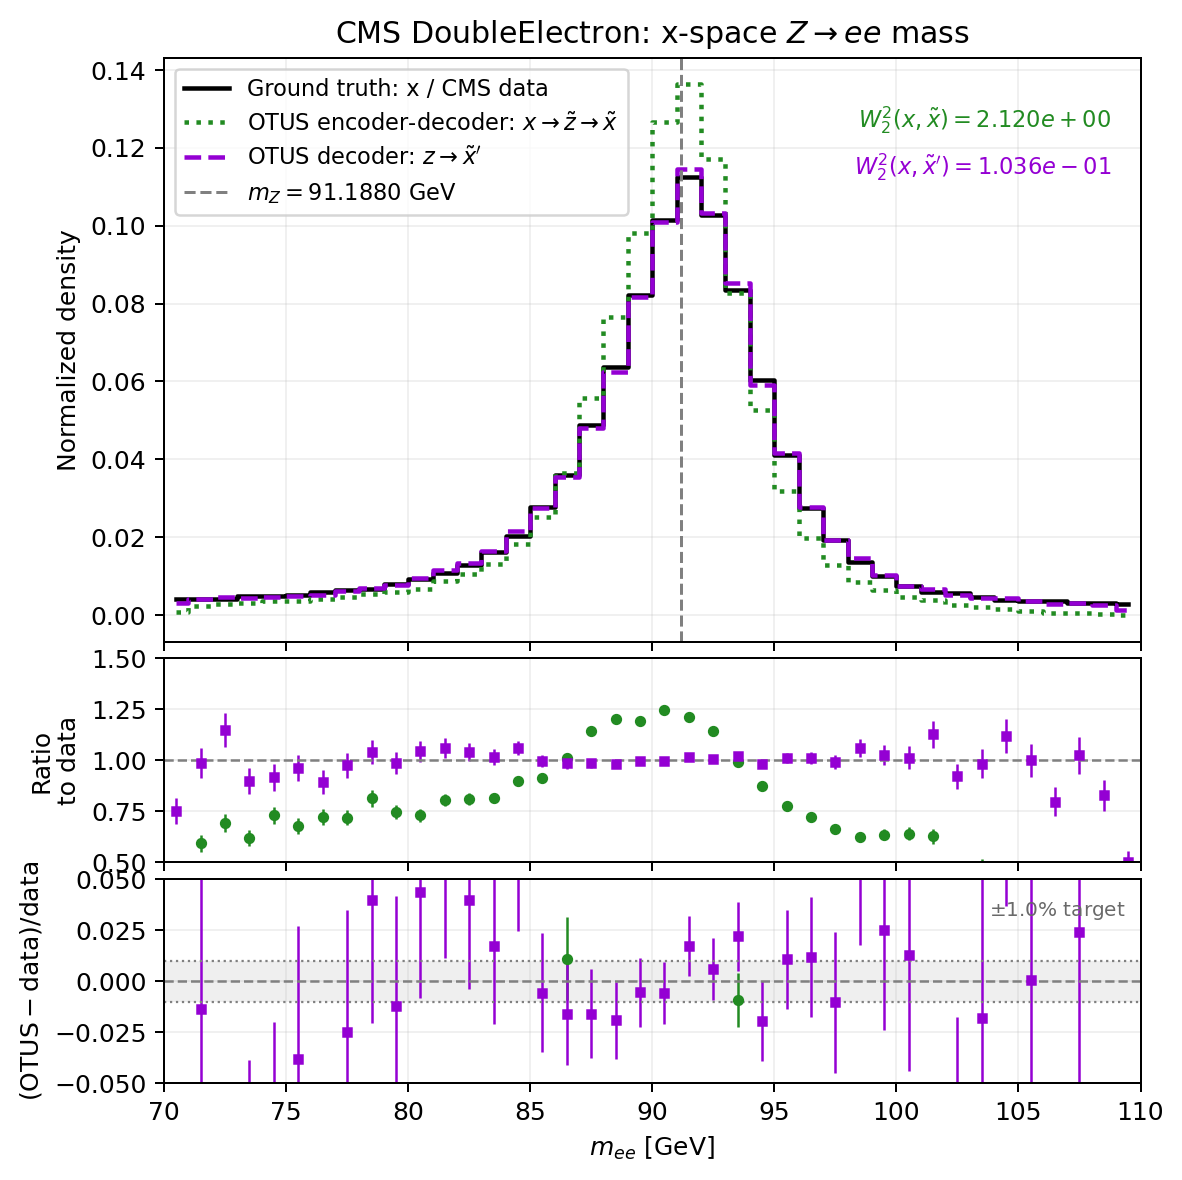
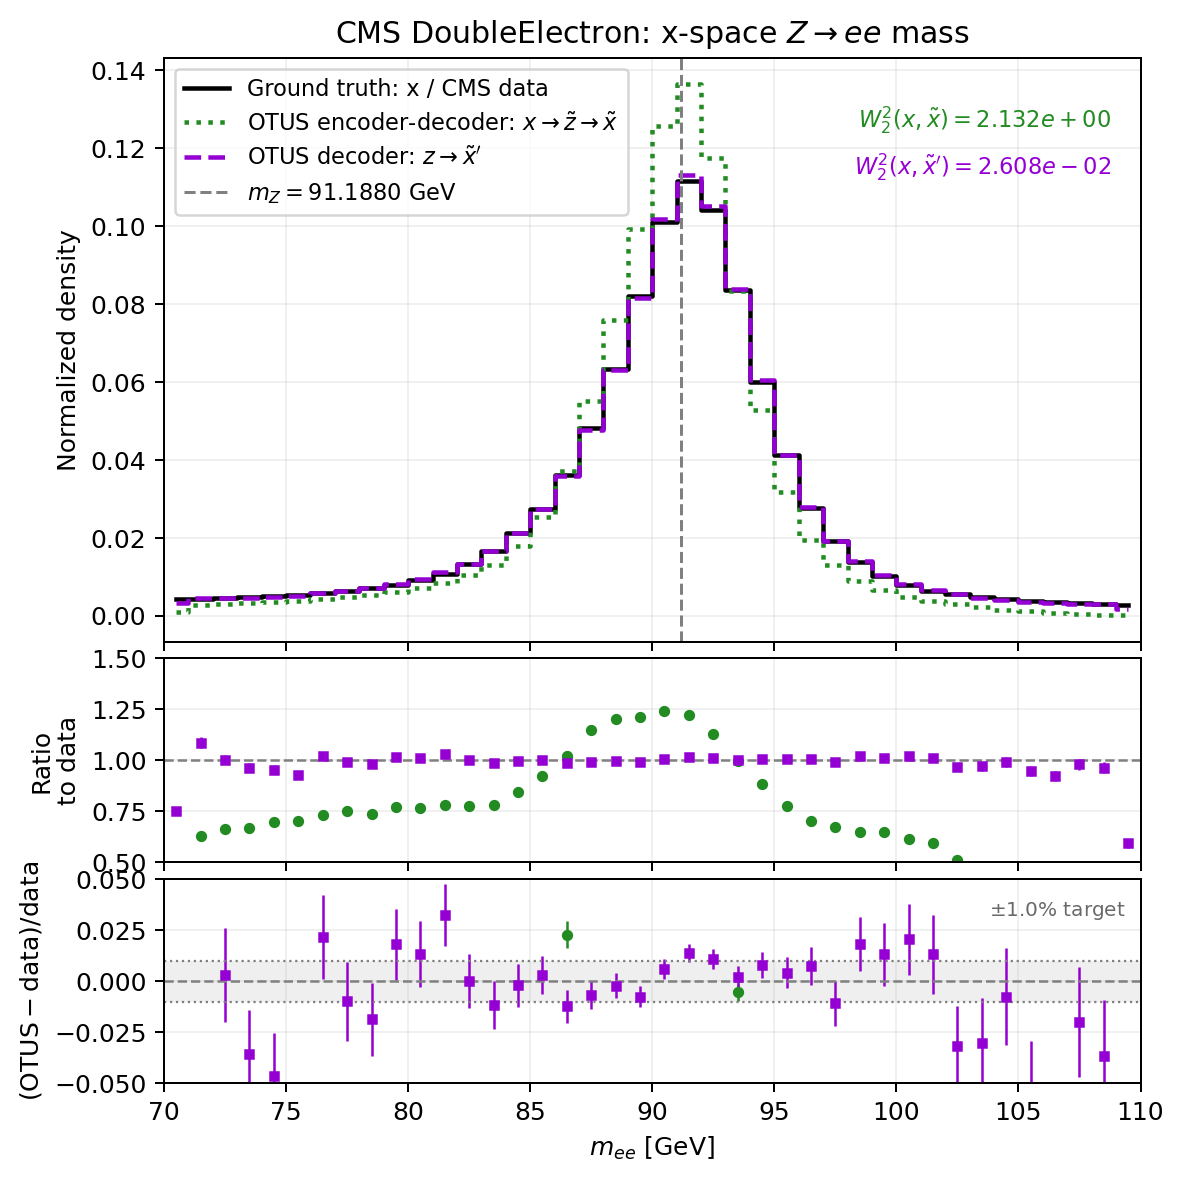
upload model

diff --git a/scripts/plot.py b/scripts/plot.py
@@ -1,8 +1,10 @@
 from __future__ import annotations
 
 import argparse
+import hashlib
 import json
 from pathlib import Path
+import time
 from typing import Any
 
 import matplotlib
@@ -58,10 +60,32 @@ def parse_args() -> argparse.Namespace:
     parser.add_argument("--device", default="auto", help="auto, cuda, mps, or cpu.")
     parser.add_argument("--output-dir", type=Path, default=None, help="Plot output directory.")
     parser.add_argument("--num-samples", type=int, default=None, help="Limit selected CMS and MG5 rows before splitting.")
-    parser.add_argument("--split", choices=("val", "test"), default="test", help="Held-out split to plot.")
+    parser.add_argument(
+        "--cache-dir",
+        type=Path,
+        default=None,
+        help="Directory for selected/split data cache. Defaults to <output_root>/.plot_cache.",
+    )
+    parser.add_argument(
+        "--no-data-cache",
+        action="store_true",
+        help="Disable selected/split data caching and reread ROOT/HDF5 inputs.",
+    )
+    parser.add_argument(
+        "--split",
+        choices=("all", "val", "test"),
+        default="all",
+        help="Data split to plot. Use all selected rows by default.",
+    )
     parser.add_argument("--max-x-events", type=int, default=5000000, help="Maximum CMS x events to plot.")
     parser.add_argument("--max-z-events", type=int, default=5000000, help="Maximum MG5 z events to plot.")
     parser.add_argument("--batch-size", type=int, default=None, help="Inference batch size.")
+    parser.add_argument(
+        "--progress-log-steps",
+        type=int,
+        default=10,
+        help="Log inference progress every N batches. Use 0 to log only phase boundaries.",
+    )
     parser.add_argument("--seed", type=int, default=None, help="Plot subsampling seed.")
     parser.add_argument(
         "--counts",
@@ -77,6 +101,10 @@ def parse_args() -> argparse.Namespace:
 def finite_values(a: np.ndarray) -> np.ndarray:
     values = np.asarray(a).reshape(-1)
     return values[np.isfinite(values)]
+
+
+def log_progress(message: str) -> None:
+    print(f"[plot {time.strftime('%H:%M:%S')}] {message}", flush=True)
 
 
 def finite_8d(a: np.ndarray, name: str) -> np.ndarray:
@@ -97,6 +125,93 @@ def random_subset(a: np.ndarray, n: int | None, seed: int) -> np.ndarray:
     rng = np.random.default_rng(seed)
     idx = rng.choice(len(values), size=int(n), replace=False)
     return values[idx]
+
+
+def select_split(arrays: dict[str, np.ndarray], prefix: str, split: str) -> np.ndarray:
+    if split == "all":
+        return np.concatenate(
+            [arrays[f"{prefix}_train"], arrays[f"{prefix}_val"], arrays[f"{prefix}_test"]],
+            axis=0,
+        )
+    return arrays[f"{prefix}_{split}"]
+
+
+def file_fingerprint(path: str | Path) -> dict[str, Any]:
+    resolved = Path(path).expanduser().resolve()
+    stat = resolved.stat()
+    return {
+        "path": str(resolved),
+        "size": int(stat.st_size),
+        "mtime_ns": int(stat.st_mtime_ns),
+    }
+
+
+def data_cache_metadata(config: dict[str, Any], num_samples: int | None) -> dict[str, Any]:
+    paths = config["paths"]
+    metadata: dict[str, Any] = {
+        "version": 1,
+        "num_samples": None if num_samples is None else int(num_samples),
+        "float_type": config.get("float_type", "float32"),
+        "seed": int(config.get("seed", 0)),
+        "data_split": config["data_split"],
+        "electron_selection": config["electron_selection"],
+        "cms_root_file": file_fingerprint(paths["cms_root_file"]),
+    }
+    if paths.get("theory_prior_files"):
+        metadata["theory_prior_files"] = [
+            file_fingerprint(item) for item in paths["theory_prior_files"]
+        ]
+        metadata["theory_prior_weights"] = paths.get("theory_prior_weights")
+        metadata["theory_prior_mixture_seed"] = int(config.get("seed", 0)) + 17
+    else:
+        metadata["theory_prior_file"] = file_fingerprint(paths["theory_prior_file"])
+    return metadata
+
+
+def data_cache_key(metadata: dict[str, Any]) -> str:
+    payload = json.dumps(metadata, sort_keys=True, separators=(",", ":")).encode("utf-8")
+    return hashlib.sha256(payload).hexdigest()[:20]
+
+
+def load_and_split_cached(
+    config: dict[str, Any],
+    num_samples: int | None,
+    cache_dir: Path | None,
+    use_cache: bool,
+) -> tuple[dict[str, np.ndarray], dict[str, Any]]:
+    if not use_cache:
+        log_progress("Data cache disabled; loading selected CMS and MG5 rows from source files.")
+        return load_and_split(config, num_samples=num_samples), {"enabled": False, "hit": False}
+
+    if cache_dir is None:
+        cache_dir = Path(config["paths"]["output_root"]) / ".plot_cache"
+    cache_dir = cache_dir.expanduser().resolve()
+    cache_dir.mkdir(parents=True, exist_ok=True)
+
+    metadata = data_cache_metadata(config, num_samples)
+    key = data_cache_key(metadata)
+    cache_path = cache_dir / f"selected_split_{key}.npz"
+    metadata_path = cache_dir / f"selected_split_{key}.json"
+    expected_keys = ("x_train", "x_val", "x_test", "z_train", "z_val", "z_test")
+
+    if cache_path.exists():
+        log_progress(f"Loading selected/split data cache: {cache_path}")
+        with np.load(cache_path, allow_pickle=False) as cached:
+            arrays = {key: cached[key] for key in expected_keys}
+        log_progress(
+            "Loaded cache shapes: "
+            + ", ".join(f"{key}={value.shape}" for key, value in arrays.items())
+        )
+        return arrays, {"enabled": True, "hit": True, "path": str(cache_path), "key": key}
+
+    log_progress("Data cache miss; reading ROOT/HDF5 inputs and applying selection.")
+    arrays = load_and_split(config, num_samples=num_samples)
+    tmp_path = cache_dir / f".selected_split_{key}.tmp.npz"
+    log_progress(f"Writing selected/split data cache: {cache_path}")
+    np.savez(tmp_path, **{key: arrays[key] for key in expected_keys})
+    tmp_path.replace(cache_path)
+    metadata_path.write_text(json.dumps(json_safe(metadata), indent=2, sort_keys=True) + "\n", encoding="utf-8")
+    return arrays, {"enabled": True, "hit": False, "path": str(cache_path), "key": key}
 
 
 def inv_mass_ee(a: np.ndarray, eps: float = 0.0) -> np.ndarray:
@@ -566,11 +681,20 @@ def paper_ratio_plot_double(
     }
 
 
-def predict_batches(model: torch.nn.Module, mode: str, arr: np.ndarray, device: torch.device, batch_size: int) -> np.ndarray:
+def predict_batches(
+    model: torch.nn.Module,
+    mode: str,
+    arr: np.ndarray,
+    device: torch.device,
+    batch_size: int,
+    progress_log_steps: int,
+) -> np.ndarray:
     outputs = []
     model.eval()
+    total_batches = (len(arr) + batch_size - 1) // batch_size
+    log_progress(f"Starting {mode} inference: rows={len(arr)}, batch_size={batch_size}, batches={total_batches}")
     with torch.no_grad():
-        for start in range(0, len(arr), batch_size):
+        for batch_idx, start in enumerate(range(0, len(arr), batch_size), start=1):
             batch_np = np.asarray(arr[start : start + batch_size], dtype=np.float32)
             batch = torch.as_tensor(batch_np, dtype=torch.float32, device=device)
             if mode == "encode":
@@ -582,6 +706,9 @@ def predict_batches(model: torch.nn.Module, mode: str, arr: np.ndarray, device: 
             else:
                 raise ValueError(f"Unknown prediction mode: {mode}")
             outputs.append(first_tensor(out).detach().cpu().numpy())
+            if progress_log_steps > 0 and (batch_idx == 1 or batch_idx == total_batches or batch_idx % progress_log_steps == 0):
+                log_progress(f"{mode} inference batch {batch_idx}/{total_batches}")
+    log_progress(f"Finished {mode} inference.")
     return np.concatenate(outputs, axis=0)
 
 
@@ -648,6 +775,7 @@ def json_safe(value: Any) -> Any:
 
 def main() -> None:
     args = parse_args()
+    log_progress("Starting CMS DoubleElectron plot generation.")
     config = resolve_config(load_config(args.config))
     seed = int(config.get("seed", 0) if args.seed is None else args.seed)
     density = not args.counts
@@ -655,33 +783,42 @@ def main() -> None:
 
     device = select_device(args.device)
     report = device_report(device)
+    log_progress(f"Using device: {device}")
     checkpoint_path = args.checkpoint.expanduser().resolve()
+    output_dir = args.output_dir.expanduser().resolve() if args.output_dir else checkpoint_path.parent / "plots"
+    output_dir.mkdir(parents=True, exist_ok=True)
     model, model_config, _stats, checkpoint = load_model_from_checkpoint(
         checkpoint_path,
         config=config,
         map_location=torch.device("cpu"),
     )
     model.to(device)
+    save_resolved_config(model_config, output_dir / "config.resolved.json")
 
-    arrays = load_and_split(model_config, num_samples=args.num_samples)
+    arrays, cache_info = load_and_split_cached(
+        model_config,
+        num_samples=args.num_samples,
+        cache_dir=args.cache_dir,
+        use_cache=not args.no_data_cache,
+    )
     split = args.split
-    x_split = finite_8d(arrays[f"x_{split}"], f"x_{split}")
-    z_split = finite_8d(arrays[f"z_{split}"], f"z_{split}")
+    log_progress(f"Selecting split={split}.")
+    x_split = finite_8d(select_split(arrays, "x", split), f"x_{split}")
+    z_split = finite_8d(select_split(arrays, "z", split), f"z_{split}")
+    log_progress(f"Selected rows before caps: x={x_split.shape}, z={z_split.shape}")
 
     x_plot = random_subset(x_split, args.max_x_events, seed=seed)
     z_plot = random_subset(z_split, args.max_z_events, seed=seed + 1)
     z_for_x = random_subset(z_split, len(x_plot), seed=seed + 2)
+    log_progress(f"Rows after caps/subsampling: x_plot={x_plot.shape}, z_plot={z_plot.shape}, z_for_x={z_for_x.shape}")
 
     batch_size = int(args.batch_size or model_config.get("loaders", {}).get("eval_batch_size", 20000))
     batch_size = max(1, batch_size)
-    z_encoded = predict_batches(model, "encode", x_plot, device, batch_size)
-    x_reco = predict_batches(model, "reconstruct", x_plot, device, batch_size)
-    x_from_z = predict_batches(model, "decode", z_for_x, device, batch_size)
+    z_encoded = predict_batches(model, "encode", x_plot, device, batch_size, args.progress_log_steps)
+    x_reco = predict_batches(model, "reconstruct", x_plot, device, batch_size, args.progress_log_steps)
+    x_from_z = predict_batches(model, "decode", z_for_x, device, batch_size, args.progress_log_steps)
 
-    output_dir = args.output_dir.expanduser().resolve() if args.output_dir else checkpoint_path.parent / "plots"
-    output_dir.mkdir(parents=True, exist_ok=True)
-    save_resolved_config(model_config, output_dir / "config.resolved.json")
-
+    log_progress("Computing observables.")
     mass_bins = np.arange(args.mass_low, args.mass_high + args.mass_bin_width, args.mass_bin_width)
     pt_bins = np.linspace(0.0, 100.0, 101)
     bins_y = np.array([-100, -60] + [-50 + 5 * i for i in range(21)] + [60, 100], dtype=float)
@@ -691,6 +828,7 @@ def main() -> None:
     m_x = inv_mass_ee(x_plot)
     m_x_reco = inv_mass_ee(x_reco)
     m_x_from_z = inv_mass_ee(x_from_z)
+    log_progress("Writing x-space mass plot.")
     xmass_info = paper_ratio_plot_double(
         truth=m_x,
         pred1=m_x_reco,
@@ -711,6 +849,7 @@ def main() -> None:
     pt_x = pt_ee(x_plot)
     pt_x_reco = pt_ee(x_reco)
     pt_x_from_z = pt_ee(x_from_z)
+    log_progress("Writing x-space pT plot.")
     paper_ratio_plot_double(
         truth=pt_x,
         pred1=pt_x_reco,
@@ -729,6 +868,7 @@ def main() -> None:
         (6, bins_z, r"Positron $p_z$ [GeV]", (-400.0, 400.0), (0.5, 1.5), "paperstyle_zspace_pos_pz_ratio.png"),
         (7, bins_e, r"Positron $E$ [GeV]", (0.0, 400.0), (0.5, 1.5), "paperstyle_zspace_pos_E_ratio.png"),
     ]
+    log_progress("Writing selected z-space component plots.")
     for idx, bins, xlabel, xlim, ratio_ylim, filename in principal_specs_z:
         paper_ratio_plot_single(
             truth=z_plot[:, idx],
@@ -747,6 +887,7 @@ def main() -> None:
         (6, bins_z, r"Positron $p_z$ [GeV]", (-400.0, 400.0), (0.5, 1.5), "paperstyle_xspace_pos_pz_ratio.png"),
         (7, bins_e, r"Positron $E$ [GeV]", (0.0, 400.0), (0.5, 1.5), "paperstyle_xspace_pos_E_ratio.png"),
     ]
+    log_progress("Writing selected x-space component plots.")
     for idx, bins, xlabel, xlim, ratio_ylim, filename in principal_specs_x:
         paper_ratio_plot_double(
             truth=x_plot[:, idx],
@@ -763,6 +904,7 @@ def main() -> None:
 
     m_z_prior = inv_mass_ee(z_plot)
     m_x_to_z = inv_mass_ee(z_encoded)
+    log_progress("Writing z-space mass plot.")
     paper_ratio_plot_single(
         truth=m_z_prior,
         pred=m_x_to_z,
@@ -777,6 +919,7 @@ def main() -> None:
         reference_label=fr"$m_Z={MZ_REF:.4f}$ GeV",
     )
 
+    log_progress("Writing all-component density checks.")
     plot_all_components(
         arrays=[(z_plot, "MG5 z", TRUTH_STYLE), (z_encoded, r"CMS x $\rightarrow$ z", ENC_STYLE)],
         title="z-space component check: MG5 z vs OTUS x -> z",
@@ -797,6 +940,7 @@ def main() -> None:
     )
 
     zspace_validation_dir = output_dir / "zspace_validation"
+    log_progress("Writing z-space validation plots.")
     paper_ratio_plot_single(
         truth=m_z_prior,
         pred=m_x_to_z,
@@ -818,6 +962,7 @@ def main() -> None:
         density=density,
     )
 
+    log_progress("Computing residual and statistical summaries.")
     ks_mass, p_mass = maybe_ks(m_z_prior, m_x_to_z)
     ks_pt_reco, p_pt_reco = maybe_ks(pt_x, pt_x_reco)
     ks_pt_zx, p_pt_zx = maybe_ks(pt_x, pt_x_from_z)
@@ -872,6 +1017,7 @@ def main() -> None:
         f"CHECKPOINT_EPOCH: {checkpoint.get('epoch')}",
         f"CHECKPOINT_EVAL_LOSS: {checkpoint.get('eval_loss')}",
         f"SPLIT: {split}",
+        f"DATA_CACHE: {cache_info}",
         f"DEVICE: {device}",
         f"HAS_SCIPY: {HAS_SCIPY}",
         f"z_mg5 shape: {z_plot.shape}",